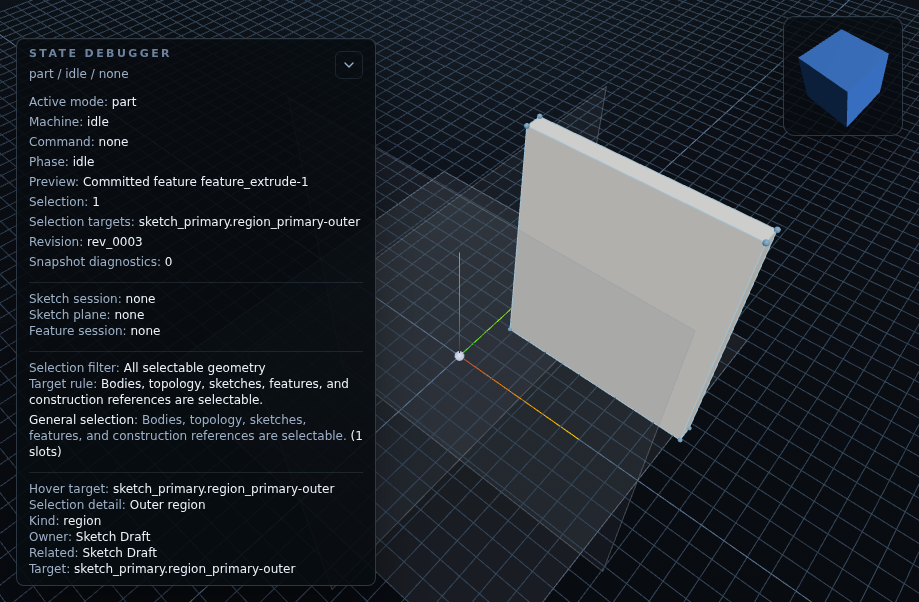
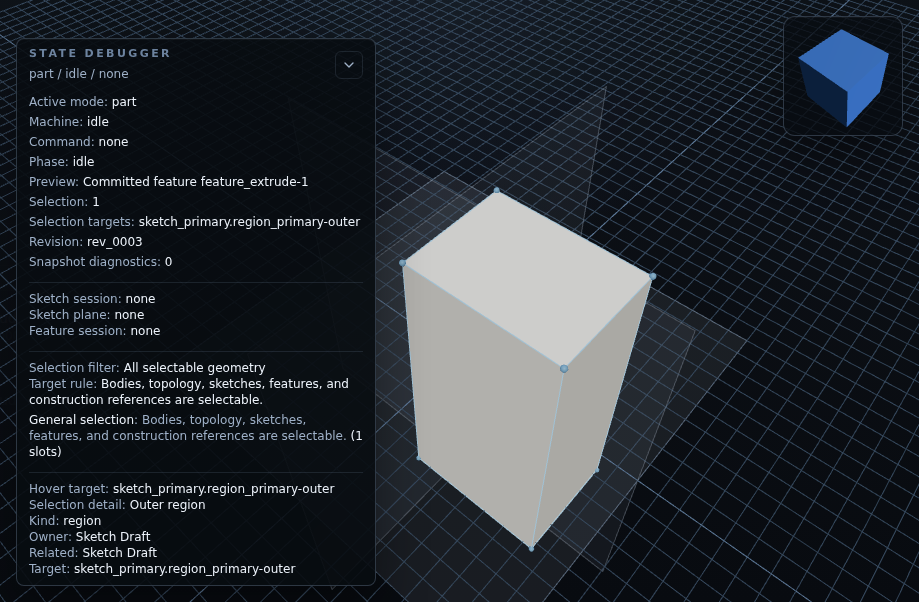
Fix the state - selection still broken

Changed region(s): [[0.4266, 0.1794, 0.8531, 0.9269]]

diff --git a/src/hooks/editor-provider.tsx b/src/hooks/editor-provider.tsx
@@ -1,12 +1,16 @@
-import { useCallback, useEffect, useMemo, useState } from 'react'
+import { useCallback, useEffect, useMemo, useRef, useState } from 'react'
 import type { PropsWithChildren } from 'react'
 
 import {
   createModelingServiceEditorEffectRuntime,
   getEditorViewState,
+  initialEditorState,
   type EditorEvent,
 } from '@/contracts/editor/state-machine'
-import { createEditorRuntimeActor } from '@/contracts/editor/runtime-machine'
+import {
+  createEditorRuntimeActor,
+  type EditorRuntimeActor,
+} from '@/contracts/editor/runtime-machine'
 import type { ModelingService } from '@/domain/modeling/modeling-service'
 import { EditorContext } from '@/hooks/editor-context'
 
@@ -19,27 +23,32 @@ export function EditorProvider({ modelingService, children }: EditorProviderProp
     () => createModelingServiceEditorEffectRuntime(modelingService),
     [modelingService],
   )
-  const actor = useMemo(() => createEditorRuntimeActor(runtime), [runtime])
-  const [machineState, setMachineState] = useState(() => actor.getSnapshot().context.machineState)
+  const actorRef = useRef<EditorRuntimeActor | null>(null)
+  const [machineState, setMachineState] = useState(() => initialEditorState)
 
   useEffect(() => {
-    actor.start()
+    const actor = createEditorRuntimeActor(runtime)
+    actorRef.current = actor
 
     const subscription = actor.subscribe((snapshot) => {
       setMachineState(snapshot.context.machineState)
     })
 
+    actor.start()
     setMachineState(actor.getSnapshot().context.machineState)
 
     return () => {
       subscription.unsubscribe()
+      if (actorRef.current === actor) {
+        actorRef.current = null
+      }
       actor.stop()
     }
-  }, [actor])
+  }, [runtime])
 
   const dispatch = useCallback((event: EditorEvent) => {
-    actor.send(event)
-  }, [actor])
+    actorRef.current?.send(event)
+  }, [])
 
   const value = useMemo(
     () => ({

diff --git a/src/domain/modeling/modeling-service.ts b/src/domain/modeling/modeling-service.ts
@@ -2402,6 +2402,9 @@ function normalizeEntities(value: unknown): SnapshotEntityRecord[] {
           semantic !== 'constructionPlane' &&
           semantic !== 'existingSketch' &&
           semantic !== 'sketchEntity' &&
+          semantic !== 'sketchPoint' &&
+          semantic !== 'constraintAnnotation' &&
+          semantic !== 'dimensionAnnotation' &&
           semantic !== 'planarFace' &&
           semantic !== 'planarReference'
         ) {
@@ -2799,12 +2802,12 @@ function isAcceptedMutation(response: ModelingOperationResult) {
   return response.revisionState.kind === 'accepted'
 }
 
-async function getAdapterCurrentRevisionId(
+async function getAdapterCurrentSnapshot(
   adapter: ModelingKernelAdapter,
   documentId: DocumentId,
-): Promise<RevisionId> {
+): Promise<DocumentSnapshot> {
   const response = await adapter.getDocumentSnapshot(buildDocumentRequest(documentId))
-  return validateSnapshotResponse(response, documentId).document.revisionId
+  return validateSnapshotResponse(response, documentId)
 }
 
 function createHistoryReplayCorrelation(index: number): ModelingCommitSketchCorrelation {
@@ -2824,17 +2827,26 @@ async function replayHistoryEntry(input: {
   entry: ModelingOperationHistoryEntry
   entryIndex: number
 }): Promise<ModelingOperationResult> {
-  const baseRevisionId = await getAdapterCurrentRevisionId(input.adapter, input.documentId)
+  const currentSnapshot = await getAdapterCurrentSnapshot(input.adapter, input.documentId)
+  const baseRevisionId = currentSnapshot.document.revisionId
 
   switch (input.entry.kind) {
-    case 'commitSketch':
+    case 'commitSketch': {
+      const persistedSketchId = input.entry.payload.sketchId
+      const sketchId =
+        persistedSketchId && !currentSnapshot.sketches.some((entry) => entry.sketchId === persistedSketchId)
+          ? null
+          : persistedSketchId
+
       return input.adapter.commitSketch({
         ...input.entry.payload,
+        sketchId,
         contractVersion: CONTRACT_VERSION,
         documentId: input.documentId,
         baseRevisionId,
         solverCorrelation: createHistoryReplayCorrelation(input.entryIndex),
       })
+    }
     case 'createFeature':
       return input.adapter.createFeature({
         ...input.entry.payload,

diff --git a/e2e/editor-runtime-regression.spec.ts b/e2e/editor-runtime-regression.spec.ts
@@ -1,0 +1,20 @@
+import { expect, test } from '@playwright/test'
+
+import { FeatureWorkbenchHarness } from './helpers/feature-workbench'
+
+test.setTimeout(90_000)
+
+test('bootstraps editor state and restores persisted geometry across reload', async ({ page }) => {
+  const workbench = new FeatureWorkbenchHarness(page)
+
+  await workbench.open()
+  await expect(page.getByText('History restore failed')).toHaveCount(0)
+  await workbench.createBaseExtrudeFixture()
+  await workbench.reloadPreservingStorage()
+
+  await expect(page.getByText('History restore failed')).toHaveCount(0)
+
+  const hoveredFace = await workbench.hoverFirstViewportTargetMatching(/^body_feature_extrude-1\.face_.+$/)
+  await workbench.clickViewportAtReal(hoveredFace.point)
+  await expect.poll(() => workbench.currentEditorSelection(), { timeout: 10_000 }).toBe(hoveredFace.targetId)
+})

diff --git a/src/domain/modeling/occ/sketch-profile.ts b/src/domain/modeling/occ/sketch-profile.ts
@@ -20,7 +20,7 @@ import {
   type Vec3,
 } from '@/domain/modeling/occ/geometry'
 import {
-  OCC_CONTRACT_GAP_CODES,
+  createProjectedRegionLoopRejection,
   getProjectedRegionLoopRejectionMessage,
   isProjectedRegionSegmentSourceSupported,
 } from '@/domain/modeling/occ/implementation-policy'
@@ -348,9 +348,12 @@ function buildLoopWire(
     // Phase 0 red line: committed sketch payloads do not preserve enough
     // projected-geometry data to rebuild OCC profile wires faithfully.
     if (!isProjectedRegionSegmentSourceSupported(segment.source)) {
-      throw new Error(
-        `${OCC_CONTRACT_GAP_CODES.projectedRegionGeometryUnavailable}: ${getProjectedRegionLoopRejectionMessage(segment.source)}`,
-      )
+      const rejection = createProjectedRegionLoopRejection(segment.source)
+      const error = new Error(getProjectedRegionLoopRejectionMessage(segment.source)) as Error & {
+        code?: string
+      }
+      error.code = rejection.code
+      throw error
     }
 
     const geometry = getSolvedEntityGeometry(sketch, segment.source.entityId)

diff --git a/src/domain/modeling/opencascade-kernel-adapter.ts b/src/domain/modeling/opencascade-kernel-adapter.ts
@@ -517,6 +517,15 @@ function deriveRebuildFailureCode(error: unknown) {
     return OCC_REBUILD_FAILURE_CODE
   }
 
+  const structuredCode =
+    'code' in error && typeof (error as Error & { code?: unknown }).code === 'string'
+      ? (error as Error & { code: string }).code
+      : null
+
+  if (structuredCode && OCC_REBUILD_DIAGNOSTIC_CODES.has(structuredCode)) {
+    return structuredCode
+  }
+
   const match = /^([a-z0-9-]+):\s+/i.exec(error.message)
 
   if (!match) {

diff --git a/e2e/workbench-state-debugger.spec.ts b/e2e/workbench-state-debugger.spec.ts
@@ -12,10 +12,10 @@ test('state debugger owns workbench debug readouts and collapses locally', async
   await expect(page.getByText('Active mode')).toBeVisible()
   await expect(page.getByText('Selection filter')).toBeVisible()
 
-  const featureTreeHeader = page.locator('header').filter({ hasText: 'Feature Tree' })
-  await expect(featureTreeHeader).toBeVisible()
-  await expect(featureTreeHeader).not.toContainText('Active mode')
-  await expect(featureTreeHeader).not.toContainText('Filter:')
+  const partsHeader = page.locator('aside header').filter({ hasText: 'Parts & Objects' }).first()
+  await expect(partsHeader).toBeVisible()
+  await expect(partsHeader).not.toContainText('Active mode')
+  await expect(partsHeader).not.toContainText('Filter:')
   await expect(page.getByText('Editor Session')).toHaveCount(0)
 
   await page.getByRole('button', { name: 'Collapse state debugger' }).click()